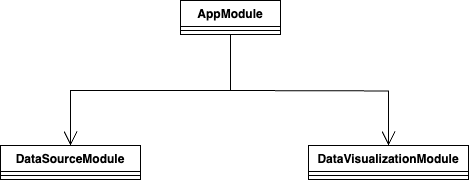
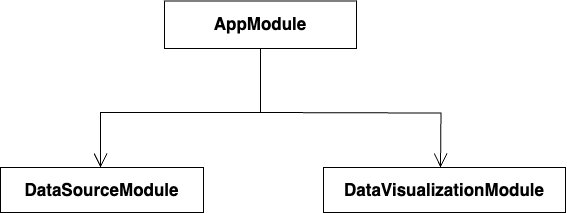
Change: correzioni UML

Changed region(s): [[0.0, 0.0, 1.0, 1.0], [0.0, 0.8011, 0.3872, 1.0], [0.3574, 0.0552, 0.5957, 0.1934]]

diff --git a/Docs/PB/Generali Esterni/specifica_tecnica/04_architettura_back.tex b/Docs/PB/Generali Esterni/specifica_tecnica/04_architettura_back.tex
@@ -23,7 +23,7 @@ In NestJS, ogni modulo è una classe annotata con un decoratore \texttt{@Module(
 
 \begin{figure}[H] 
     \centering
-    \includegraphics[scale = 0.6]{template/images/uml_back/AppModule.png}
+    \includegraphics[scale = 0.5]{template/images/uml_back/AppModule.png}
     \caption{AppModule}
 \end{figure}
 
@@ -36,7 +36,7 @@ I moduli principali contengono la logica fondamentale dell'applicazione e sono r
 
 \begin{figure}[H] 
     \centering
-    \includegraphics[scale = 0.4]{template/images/uml_back/DataSourceModule.png}
+    \includegraphics[scale = 0.55]{template/images/uml_back/DataSourceModule.png}
     \caption{DataSourceModule}
 \end{figure}
 
@@ -124,7 +124,7 @@ In questo progetto includono il \texttt{FetcherModule} e il \texttt{RepositoryMo
 
 \begin{figure}[H] 
     \centering
-    \includegraphics[scale = 0.4]{template/images/uml_back/FetcherModule.png}
+    \includegraphics[scale = 0.5]{template/images/uml_back/FetcherModule.png}
     \caption{FetcherModule}
 \end{figure}
 
@@ -157,7 +157,7 @@ Il \texttt{FetcherModule} esporta il provider \texttt{FETCHERS}, che aggrega le 
 
 \begin{figure}[H] 
     \centering
-    \includegraphics[scale = 0.45]{template/images/uml_back/RepositoryModule.png}
+    \includegraphics[scale = 0.5]{template/images/uml_back/RepositoryModule.png}
     \caption{RepositoryModule}
 \end{figure}
 
